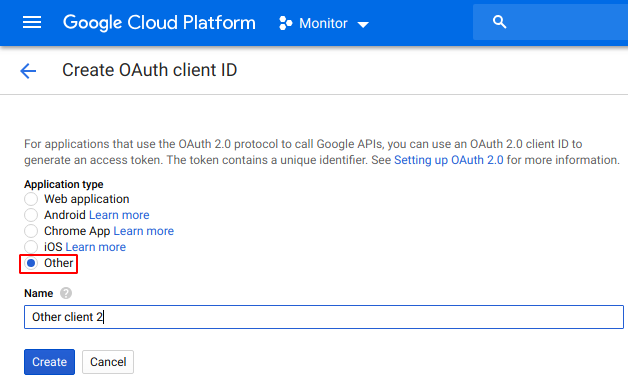
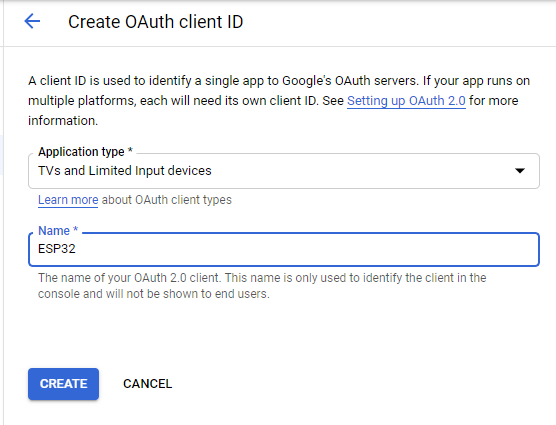
Update google_storage documentation (#47)

diff --git a/examples/google_storage/README.md b/examples/google_storage/README.md
@@ -20,13 +20,13 @@ This is step is a no-brainer.
 
 ### Step 1: Configure your Google Credential
 
-Register a new credential in [google cloud credential manager](https://console.cloud.google.com/apis/credentials). Make sure the right project is selected.
+Register a new `OAuth client ID` credential in [google cloud credential manager](https://console.cloud.google.com/apis/credentials). Make sure the right project is selected.
 
 ![new credential](../../assets/google_storage/new-credential.png)
 
-Make sure to select application type as `other`:
+Make sure to select application type as `TVs and Limited Input devices`:
 
-![application type as other](../../assets/google_storage/credential-type-other.png)
+![application type as TVs and Limited Input devices](../../assets/google_storage/credential-type-other.png)
 
 Save the newly generated `client ID` and `client secret`:
 
@@ -93,7 +93,7 @@ Run [the following HTTP request](https://developers.google.com/identity/protocol
 ```curl
 curl -X POST \
   https://www.googleapis.com/oauth2/v4/token \
-  -d 'client_secret=[client_secret]&client_id=[client_id]&code=[device_code]&grant_type=http%3A%2F%2Foauth.net%2Fgrant_type%2Fdevice%2F1.0'
+  -d 'client_secret=[client_secret]&client_id=[client_id]&device_code=[device_code]&grant_type=urn%3Aietf%3Aparams%3Aoauth%3Agrant-type%3Adevice_code'
 ```
 
 You request should be someting like this:
@@ -101,7 +101,7 @@ You request should be someting like this:
 ```curl
 curl -X POST \
   https://www.googleapis.com/oauth2/v4/token \
-  -d 'client_secret=SbtStO7IgIcIJDrLEg7inTXD&client_id=188222768791-lb424a2dqca59bohh1uhitnbanl48usi.apps.googleusercontent.com&code=AH-1Ng2V5ESScqq8dz6Ena7n8-gYFKBAl2Y5QZfNemoEYFtOj_I-zNdNHpaEgjflkhT-qBWFCzyC_JfEsxKbfyh5WoPkMyDW1Q&grant_type=http%3A%2F%2Foauth.net%2Fgrant_type%2Fdevice%2F1.0'
+  -d 'client_secret=SbtStO7IgIcIJDrLEg7inTXD&client_id=188222768791-lb424a2dqca59bohh1uhitnbanl48usi.apps.googleusercontent.com&device_code=AH-1Ng2V5ESScqq8dz6Ena7n8-gYFKBAl2Y5QZfNemoEYFtOj_I-zNdNHpaEgjflkhT-qBWFCzyC_JfEsxKbfyh5WoPkMyDW1Q&grant_type=urn%3Aietf%3Aparams%3Aoauth%3Agrant-type%3Adevice_code'
 ```
 
 _Note that all characters were [URI encoded](https://www.urlencoder.org/)._
@@ -123,7 +123,9 @@ You will receive both `access_token` and `refresh_token`:
 
 Besides setting your WiFi SSID and Password via `make menuconfig` or directly in [Kconfig.projbuild](./main/Kconfig.projbuild), you also need to set `GCP_CLIENT_ID`, `GCP_CLIENT_SECRET`, `GCP_REFRESH_TOKEN`, `GCP_DEVICE_CODE`, `GCP_BUCKET` and `GCP_PROJECT`.
 
-**This example does NOT url encode any parameter. You need to do it previously. I.e. replace '1/' in refresh token for '1%2F'.**
+The bucket name can be found on [Google Cloud's Storage page](https://console.cloud.google.com/storage/browser).
+
+**This example does NOT url encode any parameter. You need to do it before adding they to Kconfig. I.e. replace '1/' in refresh token for '1%2F'.**
 
 ## Notes
 
